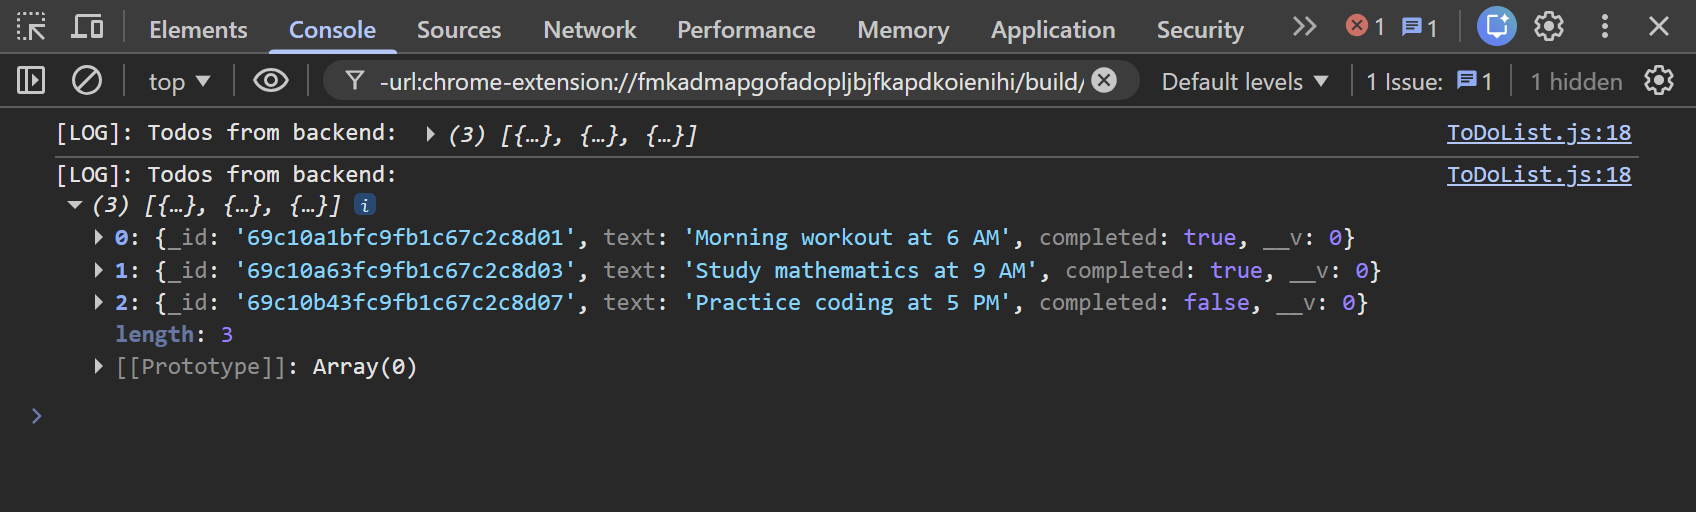
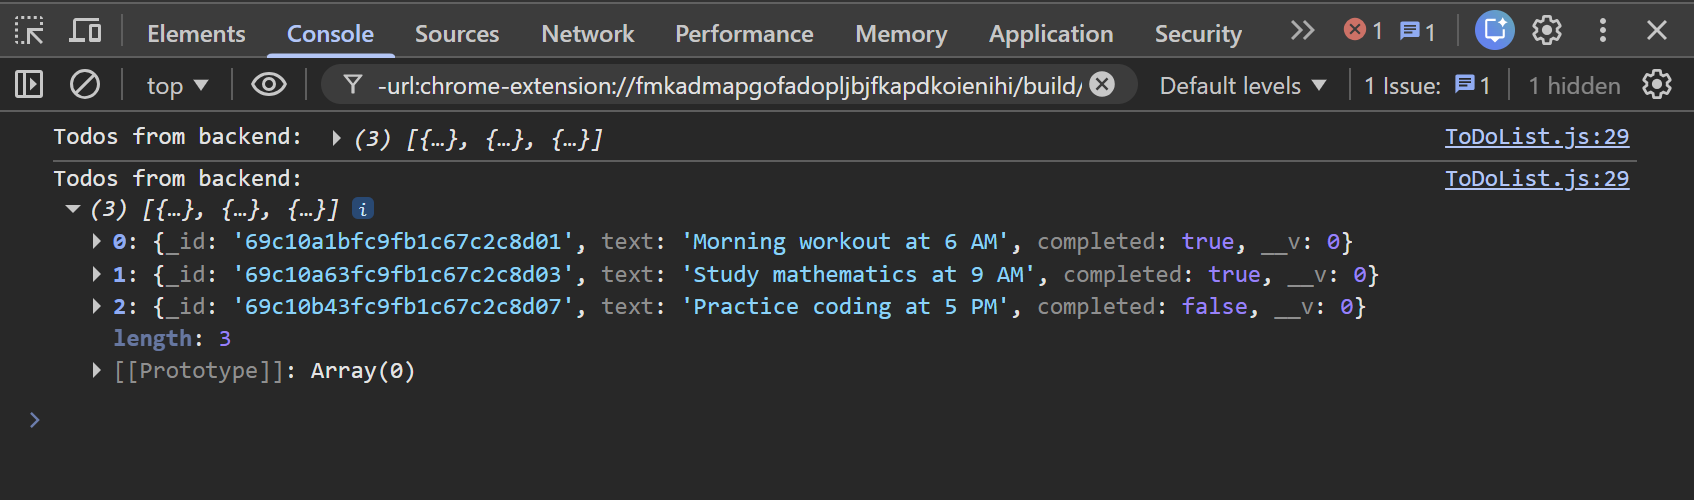
Added: Using 'axios' Library

Changed region(s): [[0.0, 0.0, 1.0, 0.78]]

diff --git a/Utility App/src/components/ToDoList/ToDoList.js b/Utility App/src/components/ToDoList/ToDoList.js
@@ -3,23 +3,31 @@ import { actions } from "../../redux/reducers/todoReducer";
 import { todoSelector } from "../../redux/reducers/todoReducer";
 //import { toggleTodo } from "../../redux/actions/todoActions";
 import { useEffect } from "react";
+import axios from "axios";
 import styles from "./ToDoList.module.css";
 
 function ToDoList() {
   const todos = useSelector(todoSelector);
-  //console.log(todos);
   const dispatch = useDispatch();
   //const todos = store.getState().todos;
 
+  //Way-1
+  // useEffect(() => {
+  //   fetch("http://localhost:5000/api/todos")
+  //     .then((res) => res.json())
+  //     .then((parsedJson) => {
+  //       console.log("Todos from backend:", parsedJson);
+  //     })
+  //     .catch((err) => {
+  //       console.error("Fetch failed:", err);
+  //     });
+  // }, []);
+
+  //Way-2
   useEffect(() => {
-    fetch("http://localhost:5000/api/todos")
-      .then((res) => res.json())
-      .then((parsedJson) => {
-        console.log("[LOG]: Todos from backend:", parsedJson);
-      })
-      .catch((err) => {
-        console.error("[ERROR]: Fetch failed:", err);
-      });
+    axios.get("http://localhost:5000/api/todos").then((res) => {
+      console.log("Todos from backend:", res.data);
+    });
   }, []);
 
   return (

diff --git a/Utility App/docs/ADVANCED-REDUX.md b/Utility App/docs/ADVANCED-REDUX.md
@@ -383,9 +383,53 @@ You can test the APIs using the following URLs in Postman. Some sample todos and
 
 <img src="../images/notes-collection.png" alt="Notes Collection" width="700" height="auto">
 
-## Using Fetch API 
+## Calling an API
 
-`fetch` is a built-in browser API used to make HTTP requests (like GET, POST) to a server.
+### Fetch function
+
+To make an asynchronous call to an API in React using the fetch function, you can
+wrap the fetch function in a `useEffect` hook. Since the fetch function is asynchronous
+and returns a promise, you can use either then and catch or async/await to handle
+the promise.
+
+For Example, we make an API call to fetch todos from the server running on
+`http://localhost:5000/api/todos`. We then convert the response to JSON using the
+`json()` function, which also returns a promise. Finally, we log the parsed JSON data
+to the console.
+
+```jsx
+useEffect(() => {
+  fetch("http://localhost:5000/api/todos")
+    .then((res) => res.json())
+    .then((parsedJson) => {
+      console.log(parsedJson);
+    });
+}, []);
+```
+
+### Axios Function
+
+Axios is a commonly used library for making HTTP requests to an API. Axios
+provides an easy-to-use interface for making asynchronous requests, and it can be
+used in combination with Redux to manage state and handle API responses.
+You can run `npm install axios` to install Axios.
+
+For example, the useEffect hook is used to make an HTTP GET request to an API
+using Axios. The axios.get method takes the API URL as its argument and returns a
+promise that resolves with the response data. Once the response is received, the
+data is logged into the console. The `[]` as the second argument to useEffect ensures
+that the effect runs only once when the component mounts.
+
+```jsx
+useEffect(() => {
+  axios.get("http://localhost:5000/api/todos").then((res) => {
+    console.log(res.data);
+  });
+}, []);
+```
+
+## Using 'fetch' API
+
 Added a `fetch` call to retrieve todos from the backend and log the response, verifying frontend-backend connectivity.
 
 ### components/ToDoList/ToDoList.js
@@ -405,10 +449,10 @@ function ToDoList() {
 +    fetch("http://localhost:5000/api/todos")
 +      .then((res) => res.json())
 +      .then((parsedJson) => {
-+        console.log("[LOG]: Todos from backend →", parsedJson);
++        console.log("Todos from backend →", parsedJson);
 +      })
 +      .catch((err) => {
-+        console.error("[ERROR]: Fetch failed →", err);
++        console.error("Fetch failed →", err);
 +      });
 +  }, []);
 
@@ -461,3 +505,57 @@ Introduced `useEffect` to fetch data from backend and log it in console.
 #### 🖥 What You See in Console:
 
 <img src="../images/fetch-api.png" alt="Fetch API" width="700" height="auto">
+
+## Using 'axios' Library
+
+Replaced the `fetch` API with `axios` to simplify HTTP requests and response handling while keeping the same functionality.
+
+### components/ToDoList/ToDoList.js
+
+```diff
+...
+import { useEffect } from "react";
++import axios from "axios";
+
+function ToDoList() {
+...
+-  useEffect(() => {
+-    fetch("http://localhost:5000/api/todos")
+-      .then((res) => res.json())
+-      .then((parsedJson) => {
+-        console.log("Todos from backend:", parsedJson);
+-      })
+-      .catch((err) => {
+-        console.error("Fetch failed:", err);
+-      });
+-  }, []);
+
++  useEffect(() => {
++    axios.get("http://localhost:5000/api/todos")
++      .then((res) => {
++        console.log("Todos from backend:", res.data);
++      })
++      .catch((err) => {
++        console.error("Fetch failed:", err);
++      });
++  }, []);
+...
+}
+
+```
+
+Replaced fetch with axios for cleaner API calls and simpler response handling.
+
+- Added axios
+  - Imported `axios` library
+  - Used for making HTTP requests
+- Replaced fetch with axios
+  - `axios.get()` directly returns parsed data
+  - No need for `.json()` conversion
+- Simplified response handling
+  - Access data using `res.data`
+  - Cleaner and shorter syntax
+- Added error handling
+  - `.catch()` handles API errors
+
+NOTE: Fetch is a built-in browser API, while Axios is an external library.
